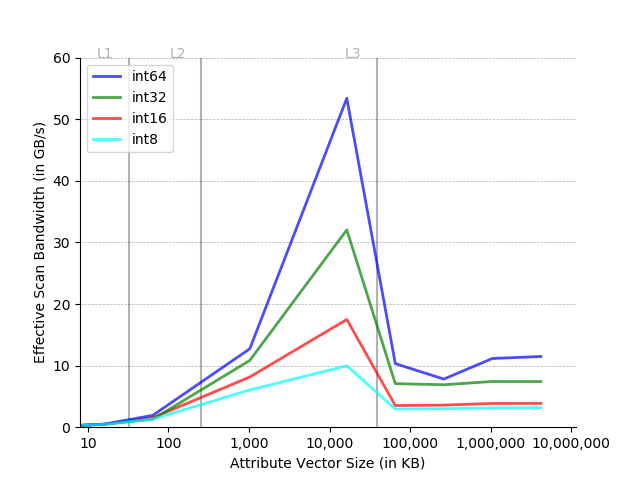
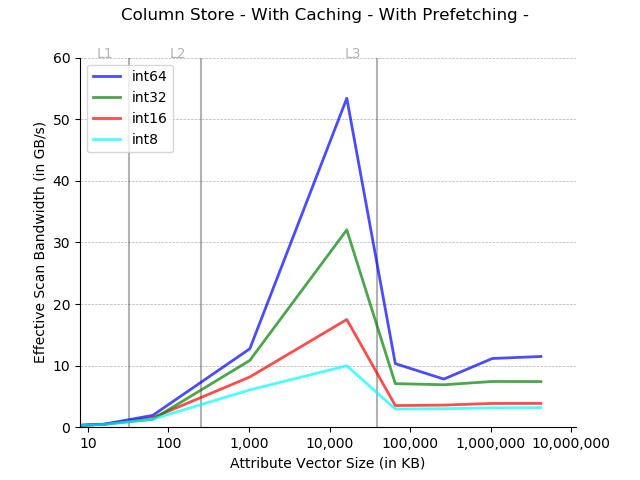
plot title, only64

Changed region(s): [[0.1875, 0.0, 0.5625, 0.0625], [0.5938, 0.0, 0.8125, 0.0625]]

diff --git a/generate_figures.py b/generate_figures.py
@@ -13,7 +13,7 @@ dtypekey = 'Data type'
 colors = ['red', 'green', 'blue', 'cyan']
 
 
-def process_file(filename, show_variance):
+def process_file(filename, show_variance, only_64):
     data = pd.read_csv(filename)
     csizes = np.unique(data[colszkey])
     dtype_dfs = []
@@ -22,27 +22,23 @@ def process_file(filename, show_variance):
     ax.spines['top'].set_visible(False)
     ax.spines['right'].set_visible(False)
 
-    for dtype in np.unique(data[dtypekey]):
-        dtype_dfs.append(data[data[dtypekey] == dtype])
+    if only_64:
+        dtype_dfs.append(data[data[dtypekey] == "int64"])
+    else:
+        for dtype in np.unique(data[dtypekey]):
+            dtype_dfs.append(data[data[dtypekey] == dtype])
 
     for idx, df in enumerate(dtype_dfs):
         bandwidth = df[colszkey] / df[tkey] / 1024 / 1024 * 1e9
         bandwidth_means = [np.mean(bandwidth[df[colszkey] == csz]) for csz in csizes]
         bandwidth_stds = [np.std(bandwidth[df[colszkey] == csz]) for csz in csizes]
 
-        if show_variance:
-            plt.errorbar(x=csizes,
-                         y=bandwidth_means,
-                         yerr=bandwidth_stds,
-                         label=df[dtypekey].iloc[0],
-                         color=colors[idx], alpha=0.7,
-                         ecolor='gray', lw=2, capsize=5, capthick=2)
-        else:
-            plt.errorbar(x=csizes,
-                         y=bandwidth_means,
-                         label=df[dtypekey].iloc[0],
-                         color=colors[idx], alpha=0.7,
-                         ecolor='gray', lw=2, capsize=5, capthick=2)
+        plt.errorbar(x=csizes,
+             y=bandwidth_means,
+             yerr=bandwidth_stds if show_variance else None,
+             label=df[dtypekey].iloc[0],
+             color=colors[idx], alpha=0.7,
+             ecolor='gray', lw=2, capsize=5, capthick=2)
 
     plt.legend()
     plt.xlabel('Attribute Vector Size (in KB)')
@@ -85,8 +81,18 @@ def process_file(filename, show_variance):
     # print labels in the right order
     handles, labels = plt.gca().get_legend_handles_labels()
     order = [2, 1, 0, 3]
-    plt.legend([handles[i] for i in order], [labels[i] for i in order], loc=2, prop={'size': 10})
+    if only_64:
+        plt.legend([handles[0]], [labels[0]], loc=2, prop={'size': 10})
+    else:
+        plt.legend([handles[i] for i in order], [labels[i] for i in order], loc=2, prop={'size': 10})
 
+    caching_enabled = "caching1" in filename
+    prefetching_enabled = "prefetch1" in filename
+    column_store = "colstore" in filename
+    caching_title = "With Caching" if caching_enabled else "No Caching"
+    prefetching_title = "With Prefetching" if prefetching_enabled else "No Prefetching"
+    store_title = "Column Store" if column_store else "Row Store"
+    plt.title("{} - {} - {} - ".format(store_title, caching_title, prefetching_title), y=1.08)
     plt.savefig(filename.replace('.csv', '.png'))
     plt.clf()
 
@@ -94,13 +100,15 @@ def process_file(filename, show_variance):
 if __name__ == '__main__':
     path = sys.argv[1] if len(sys.argv) > 1 else 'benchmark.csv'
     system_type = sys.argv[2] if len(sys.argv) > 2 else 'power'
-    show_variance = sys.argv[3] != 'no-variance' if len(sys.argv) > 3 else True
+    flags = sys.argv[3:]
+    show_variance = 'no-variance' not in flags
+    only_64 = 'only-64' in flags
     try:
         if os.path.isdir(path):
             for filename in os.listdir(path):
                 if filename[-4:] == '.csv':
                     print('Plotting ' + filename + '...')
-                    process_file(os.path.join(path, filename), show_variance)
+                    process_file(os.path.join(path, filename), show_variance, only_64)
         else:
             process_file(path)
         print('Done')
